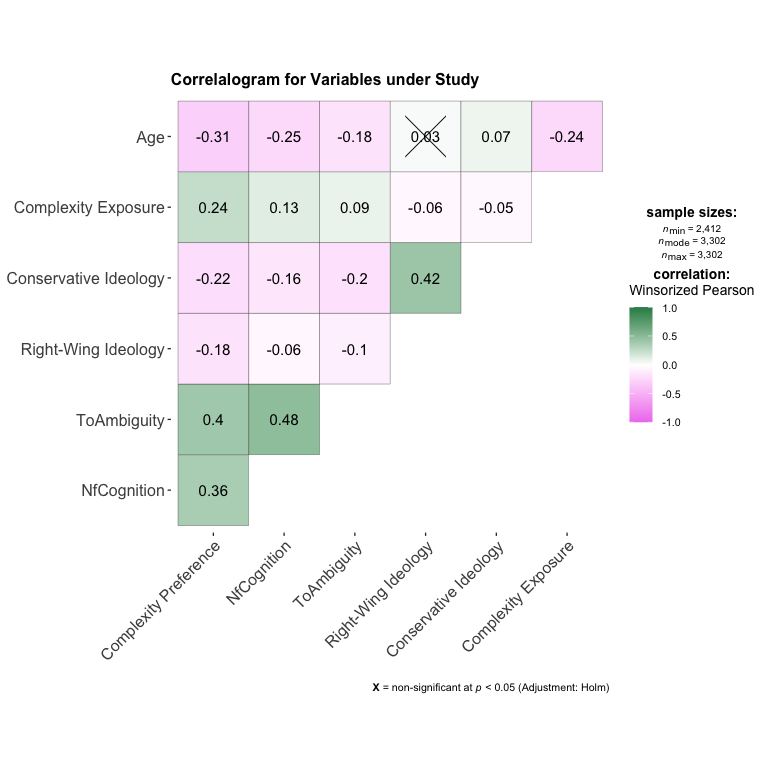
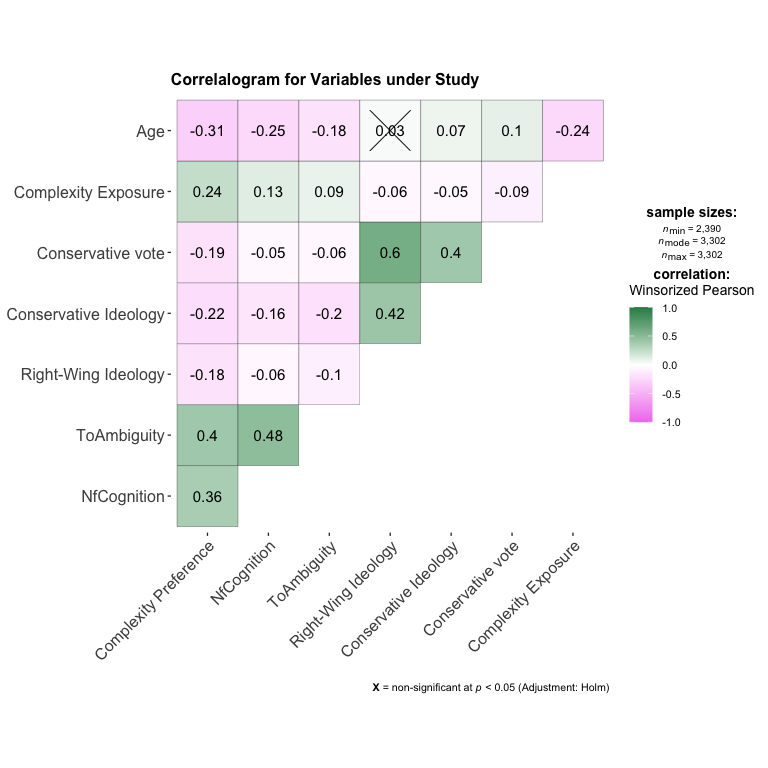
update analyses

diff --git a/src/analysis/analysis.md b/src/analysis/analysis.md
@@ -7,9 +7,9 @@ Data Analysis
   (H1b)](#h1-individuals-with-a-higher-pnc-are-more-likely-to-exhibit-greater-tolerance-for-ambiguity-h1a-demonstrate-a-higher-need-for-cognition-h1b)
   - [DV = PNC](#dv--pnc)
 - [H2: Individuals with a lower PNC are more likely to have a more
-  right-wing political orientation (H2a) and will vote for conservative
-  political parties
-  (H2b).](#h2-individuals-with-a-lower-pnc-are-more-likely-to-have-a-more-right-wing-political-orientation-h2a-and-will-vote-for-conservative-political-parties-h2b)
+  conservative political orientation (H2a) and will vote for
+  conservative political parties
+  (H2b).](#h2-individuals-with-a-lower-pnc-are-more-likely-to-have-a-more-conservative-political-orientation-h2a-and-will-vote-for-conservative-political-parties-h2b)
 
 ## Correlation Matrix all variables
 
@@ -36,7 +36,7 @@ education
 
 <img src="../../report/figures/plot h1-1.png" style="display: block; margin: auto;" />
 
-## H2: Individuals with a lower PNC are more likely to have a more right-wing political orientation (H2a) and will vote for conservative political parties (H2b).
+## H2: Individuals with a lower PNC are more likely to have a more conservative political orientation (H2a) and will vote for conservative political parties (H2b).
 
 | term              | estimate | std.error | statistic | p.value | lower | upper | model      |
 |:------------------|---------:|----------:|----------:|--------:|------:|------:|:-----------|
